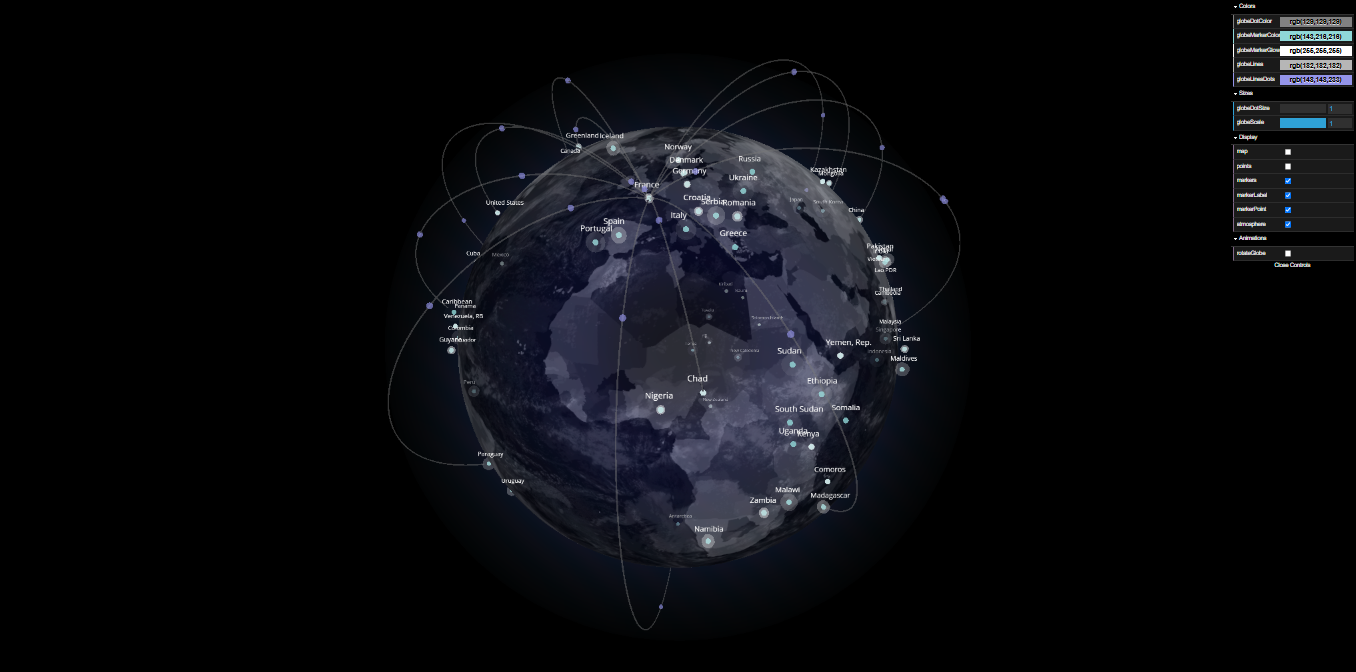
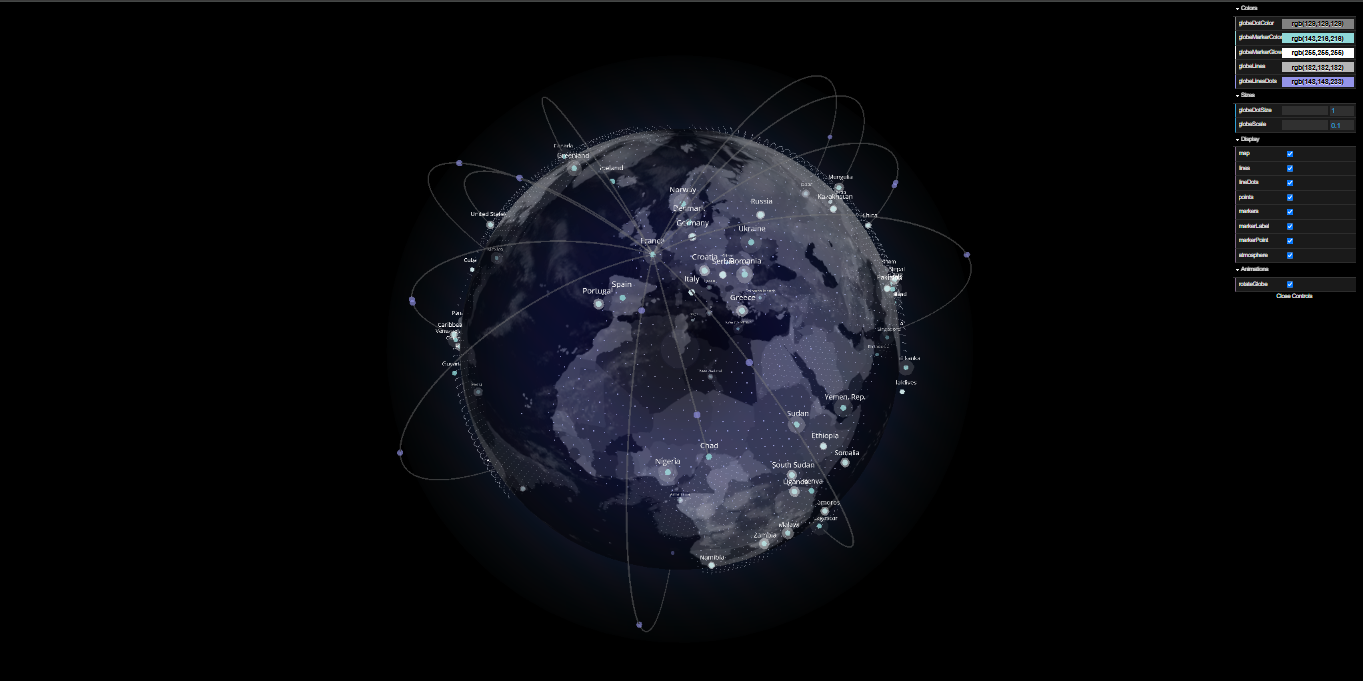
Mise à jour V.5.4
Amélioration des performances des markerLabel qui causaient des ralentissements sur l'ensemble de l'application.
Ajout dans le panneau de contrôle des éléments lines et lineDots.
Correction du problème lié à l'élément map qui ne couvrait pas tout le globe.
Ajout de la texture clouds shaders.clouds.vertexShader et shaders.clouds.fragmentShader
Amélioration des performances de chargement du globe.

 Changes to be committed:
	modified:   app/components/globe/globe.jsx
	modified:   app/components/globe/main.jsx
	modified:   app/components/globe/marker.jsx
	new file:   app/components/globe/textures/earth_atmos.jpg
	new file:   app/components/globe/textures/earth_bump_roughness_clouds.jpg
	new file:   app/components/globe/textures/earth_clouds.png
	new file:   app/components/globe/textures/earth_day_2.jpg
	new file:   app/components/globe/textures/earth_lights.png
	new file:   app/components/globe/textures/earth_night_2.jpg
	new file:   app/components/globe/textures/earth_normal.jpg
	new file:   app/components/globe/textures/earth_specular.jpg
	modified:   app/components/globe/utils/config.js
	modified:   app/components/globe/utils/shaders.js
	modified:   static/img/screen_globe.png

diff --git a/app/components/globe/main.jsx b/app/components/globe/main.jsx
@@ -58,7 +58,7 @@ const Main = () => {
     const setup = (app) => {
         const controllers = [];
         // Panneau de configuration décommenter pour activer le panneau de configuration.
-        {/*app.addControlGui(gui => {
+        {/* app.addControlGui(gui => {
             const colorFolder = gui.addFolder('Colors');
             controllers.push(colorFolder.addColor(config.colors, 'globeDotColor'));
             controllers.push(colorFolder.addColor(config.colors, 'globeMarkerColor'));
@@ -72,6 +72,8 @@ const Main = () => {
 
             const displayFolder = gui.addFolder('Display');
             controllers.push(displayFolder.add(config.display, 'map'));
+            controllers.push(displayFolder.add(config.display, 'lines'));
+            controllers.push(displayFolder.add(config.display, 'lineDots'));
             controllers.push(displayFolder.add(config.display, 'points'));
             controllers.push(displayFolder.add(config.display, 'markers'));
             controllers.push(displayFolder.add(config.display, 'markerLabel'));
@@ -82,7 +84,7 @@ const Main = () => {
             controllers.push(animationsFolder.add(animations, 'rotateGlobe'));
 
             sizeFolder.open();
-        });*/}
+        }); */}
 
         controllers.forEach(controller => {
             controller.onChange(() => {
@@ -139,16 +141,26 @@ const Main = () => {
     const animate = (app) => {
         if (controls.changed) {
             const updateMaterial = (element, property, value) => {
-                if (element) {
+                if (element && element.material) {
                     element.material[property] = value;
                 }
             };
 
             const updateVisibility = (elements, visible) => {
-                elements.forEach(element => {
-                    if (element) element.visible = visible;
-                });
+                if (elements) {
+                    elements.forEach(element => {
+                        if (element) element.visible = visible;
+                    });
+                }
             };
+
+            if (groups.lines) {
+                groups.lines.visible = config.display.lines;
+            }
+
+            if (elements.lineDots && groups.lineDots) {
+                groups.lineDots.visible = config.display.lineDots;
+            }
 
             if (elements.atmosphere) {
                 elements.atmosphere.visible = config.display.atmosphere;
@@ -167,7 +179,9 @@ const Main = () => {
 
             if (elements.lines) {
                 elements.lines.forEach(line => {
-                    line.material.color.set(config.colors.globeLines);
+                    if (line && line.material) {
+                        line.material.color.set(config.colors.globeLines);
+                    }
                 });
             }
 
@@ -176,8 +190,13 @@ const Main = () => {
                 if (group) group.visible = config.display[configKeys[index]];
             });
 
-            updateVisibility(elements.markerLabel, config.display.markerLabel);
-            updateVisibility(elements.markerPoint, config.display.markerPoint);
+            if (elements.markerLabel) {
+                updateVisibility(elements.markerLabel, config.display.markerLabel);
+            }
+
+            if (elements.markerPoint) {
+                updateVisibility(elements.markerPoint, config.display.markerPoint);
+            }
 
             setControls(prevControls => ({ ...prevControls, changed: false }));
         }
@@ -186,7 +205,7 @@ const Main = () => {
             elements.lineDots.forEach(dot => {
                 if (dot && dot.material) {
                     dot.material.color.set(config.colors.globeLinesDots);
-                    dot.animate();
+                    if (dot.animate) dot.animate();
                 }
             });
         }
@@ -203,7 +222,7 @@ const Main = () => {
                     if (marker.label && marker.label.material) {
                         marker.label.material.map.needsUpdate = true;
                     }
-                    marker.animateGlow && marker.animateGlow();
+                    if (marker.animateGlow) marker.animateGlow();
                 }
             });
         }
@@ -211,11 +230,11 @@ const Main = () => {
         if (!groups.globe) {
             console.error("groups.globe is not initialized.");
         } else {
-            groups.globe.add(groups.atmosphere || new THREE.Group());
-            groups.globe.add(groups.lines || new THREE.Group());
-            groups.globe.add(groups.markers || new THREE.Group());
-            groups.globe.add(groups.points || new THREE.Group());
-            groups.globe.add(groups.map || new THREE.Group());
+            if (groups.atmosphere) groups.globe.add(groups.atmosphere);
+            if (groups.lines) groups.globe.add(groups.lines);
+            if (groups.markers) groups.globe.add(groups.markers);
+            if (groups.points) groups.globe.add(groups.points);
+            if (groups.map) groups.globe.add(groups.map);
 
             if (!app.renderer) {
                 console.error("Renderer is not initialized.");
@@ -226,7 +245,9 @@ const Main = () => {
             groups.globe.rotation.y -= 0.0025;
         }
 
-        app.renderer.render(app.scene, app.camera);
+        if (app.renderer) {
+            app.renderer.render(app.scene, app.camera);
+        }
     };
 
     useEffect(() => {

diff --git a/app/components/globe/marker.jsx b/app/components/globe/marker.jsx
@@ -1,8 +1,7 @@
 // app/components/globe/marker.jsx
 import * as THREE from 'three';
-import { Component } from 'react';
-import { fabric } from 'fabric';
 
+import { Component } from 'react';
 import { config, elements, groups, textures } from '~/components/globe/utils/config';
 
 
@@ -60,22 +59,52 @@ class Marker extends Component {
         }
     }
 
-    createLabel() {
-        const text = this.createText();
-        const texture = new THREE.Texture(text);
-        texture.minFilter = THREE.LinearFilter;
-        textures.markerLabels.push(texture);
+    async createLabel() {
+        try {
+            // Crée un canvas pour générer une texture de texte
+            const canvas = document.createElement('canvas');
+            const context = canvas.getContext('2d');
 
-        texture.needsUpdate = true;
+            // Définir la taille du canvas en fonction de la longueur du texte
+            const text = this.labelText;
+            const fontSize = 48; // Taille de la police
+            context.font = `${fontSize}px Open Sans`;
+            const textWidth = context.measureText(text).width;
+            canvas.width = textWidth;
+            canvas.height = fontSize;
 
-        const material = new THREE.SpriteMaterial({ map: texture, depthTest: false });
-        this.label = new THREE.Sprite(material);
-        this.label.scale.set(40, 20, 1);
-        this.label.center.x = 0.25;
-        this.label.translateY(2);
+            // Dessine le texte sur le canvas
+            context.font = `${fontSize}px Open Sans`;
+            context.fillStyle = this.textColor;
+            context.textBaseline = 'top';
+            context.fillText(text, 0, 0);
 
-        this.groupRef.add(this.label);
-        elements.markerLabel.push(this.label);
+            // Crée une texture à partir du canvas
+            const texture = new THREE.CanvasTexture(canvas);
+            texture.minFilter = THREE.LinearFilter;
+            textures.needsUpdate = true;
+
+            // Crée un matériau Sprite pour afficher la texture
+            const spriteMaterial = new THREE.SpriteMaterial({ map: texture });
+            const sprite = new THREE.Sprite(spriteMaterial);
+
+            // Ajuste l'échelle du sprite
+            const scale = 0.1; // Ajuste l'échelle selon vos besoins
+            sprite.scale.set(textWidth * scale, fontSize * scale, 1);
+
+            // Positionne le sprite
+            sprite.position.set(0, 9, 0); // Ajuste la position selon vos besoins
+
+            // Ajoute le sprite au groupe
+            this.groupRef.add(sprite);
+
+            // Ajoute le label à la liste des éléments
+            if (elements?.markerLabel) {
+                elements.markerLabel.push(sprite);
+            }
+        } catch (error) {
+            console.error("Error loading the font :", error);
+        }
     }
 
     createPoint() {
@@ -121,23 +150,13 @@ class Marker extends Component {
     }
 
     setPosition() {
+        console.log("Coordinates received :", this.props.cords);
+        if (!this.props.cords || typeof this.props.cords !== 'object') {
+            console.error("The coordinates are not valid :", this.props.cords);
+            return;
+        }
         const { x, y, z } = this.props.cords;
         this.groupRef.position.set(-x, y, -z);
-    }
-
-    createText() {
-        const element = document.createElement('canvas');
-        const canvas = new fabric.Canvas(element);
-
-        const text = new fabric.Text(this.labelText, {
-            left: 0,
-            top: 0,
-            fill: this.textColor,
-            fontFamily: 'Open Sans',
-        });
-
-        canvas.add(text);
-        return element;
     }
 
     getGroup() {

diff --git a/app/components/globe/utils/shaders.js b/app/components/globe/utils/shaders.js
@@ -3,7 +3,8 @@
 export const shaders = {
 	atmosphere: {},
 	globe: {},
-	dot: {}
+	dot: {},
+	clouds: {}
 }
 
 // Shader de sommet pour le globe
@@ -57,7 +58,7 @@ shaders.globe.fragmentShader = `
 		float pulse = 0.1 * sin(time * 3.0) + 0.1; // Pulsation légère
 
 		// Appliquer le mouvement au halo
-		gl_FragColor = vec4(haloColor * alpha * gasMovement * pulse, alpha);
+		gl_FragColor = vec4(haloColor * alpha * pulse, alpha);
 	}
 `
 
@@ -150,5 +151,57 @@ shaders.dot.fragmentShader = `
 
 		// Test alpha pour éliminer les fragments transparents indésirables
 		if ( gl_FragColor.a < ALPHATEST ) discard;
+	}
+`
+
+// Shader de sommet pour les nuages (clouds) sur le globe
+shaders.clouds.vertexShader = `
+	varying vec2 vUv;
+	uniform float time;
+
+	void main() {
+		// Récupérer la position du vertex dans l'espace du modèle
+		vec4 modelPosition = modelMatrix * vec4(position, 1.0);
+
+		// Animation des nuages : Appliquer un mouvement de rotation autour du globe
+		float angle = time * 0.02; // Vitesse de rotation
+		mat4 rotationMatrix = mat4(
+			vec4(cos(angle), 0.0, sin(angle), 0.0),
+			vec4(0.0, 1.0, 0.0, 0.0),
+			vec4(-sin(angle), 0.0, cos(angle), 0.0),
+			vec4(0.0, 0.0, 0.0, 1.0)
+		);
+
+		// Appliquer la rotation sur la position
+		modelPosition = rotationMatrix * modelPosition;
+
+		// Passer les coordonnées UV au fragment shader
+		vUv = uv;
+
+		// Calculer la position finale en espace du monde
+		vec4 worldPosition = modelMatrix * vec4(position, 1.0);
+
+		// Calculer la position finale dans l'espace de la caméra
+		vec4 viewPosition = viewMatrix * worldPosition;
+
+		// Finalement, appliquer la projection pour obtenir les coordonnées écran
+		gl_Position = projectionMatrix * viewPosition;
+	}
+`
+
+// Shader de fragment pour les nuages (clouds) sur le globe
+shaders.clouds.fragmentShader = `
+	uniform sampler2D cloudTexture;
+	varying vec2 vUv;
+
+	void main() {
+		// Appliquer un mouvement aux nuages en décalant les coordonnées UV
+		vec2 uvOffset = vUv + vec2(0.1 * sin(vUv.y * 10.0), 0.1 * cos(vUv.x * 10.0)); // Mouvement sinusoïdal
+
+		// Appliquer la texture des nuages
+		vec4 cloudColor = texture2D(cloudTexture, uvOffset);
+
+		// Contrôler l'opacité des nuages
+		gl_FragColor = vec4(cloudColor.rgb, cloudColor.a * 0.1); // Faible opacité pour les nuages
 	}
 `

diff --git a/app/components/globe/utils/config.js b/app/components/globe/utils/config.js
@@ -11,7 +11,7 @@ export const config = {
 	scale: {
 		points: 0.025,
 		markers: 0.025,
-		globeScale: 1
+		globeScale: 0.1
 	},
 	rotation: {
 		globe: 0.001
@@ -24,15 +24,16 @@ export const config = {
 		globeLinesDots: 'rgb(148, 148, 233)'
 	},
 	display: {
-		points: false,
-		map: false,
+		points: true,
+		map: true,
 		lines: true,
+		lineDots: true,
 		markers: true,
 		markerLabel: true,
 		markerPoint: true,
 		atmosphere: true,
 		earthMap: true,
-		earthMapClouds: false
+		earthMapClouds: true
 	},
 	dots: {
 		total: 30

diff --git a/app/components/globe/globe.jsx b/app/components/globe/globe.jsx
@@ -7,7 +7,7 @@ import { config, elements, groups } from '~/components/globe/utils/config';
 import { NoiseGenerator } from '~/components/globe/libs/perlin-noise.js';
 
 import mapTexture from '~/components/globe/textures/map_indexed.png';
-import mapTextureClouds from '~/components/globe/textures/clouds.jpg';
+import mapTextureClouds from '~/components/globe/textures/earth_clouds.png';
 
 
 class Globe extends Component {
